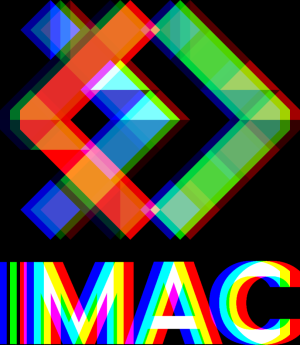
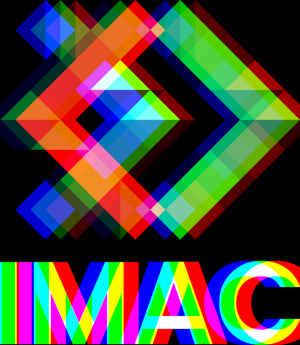
end

diff --git a/src/exo09.cpp b/src/exo09.cpp
@@ -12,20 +12,22 @@ int main()
     {
         for (int y{0}; y < image.height(); ++y)
         {
-            if (x-15>a)
+            if (x-15>0)
             {
-                image2.pixel(x-15, y).r=image.pixel(x, y).r;
+                image2.pixel(x-15, y).b=image.pixel(x, y).b;
             }
             else
             {
+                image2.pixel(x, y).b=image.pixel(x+15, y).b;
             }
                 image2.pixel(x, y).g=image.pixel(x, y).g;
             if (x+15<a)
             {
-                image2.pixel(x+15, y).b=image.pixel(x, y).b;
+                image2.pixel(x+15, y).r=image.pixel(x, y).r;
             }
             else
             {  
+                image2.pixel(x, y).r=image.pixel(x-15, y).r;
             }
 
         }

diff --git a/README.md b/README.md
@@ -47,6 +47,9 @@ Au départ j'ai eu le résultat ci-dessous.
 
 **Ex9:RGB Split**
 L'effet fonctionne mais les couleurs sont un peu mangéessur la largeur.
+
+![Exo09](output/exo09fail.png)
+
 ![Exo09](output/exo09.png)
 
 **Ex10: Luminosité**
